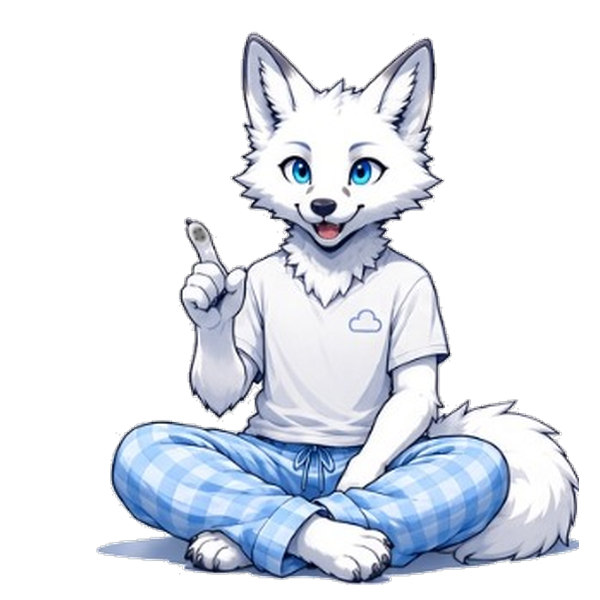
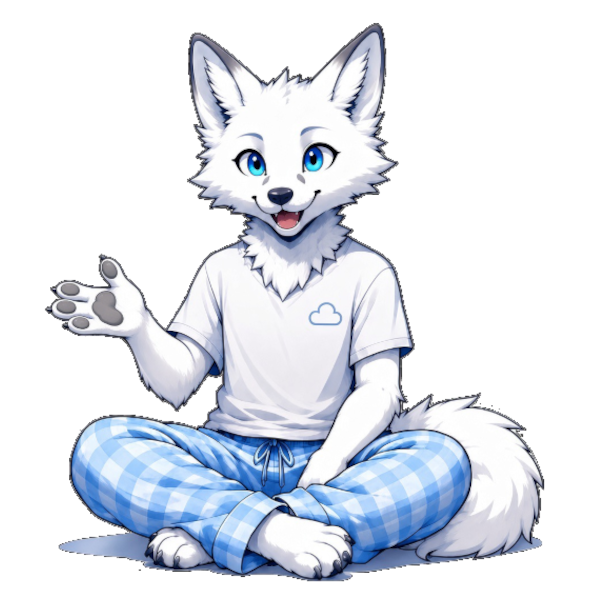
Fixes

diff --git a/CloudstaleProject/src/App.jsx b/CloudstaleProject/src/App.jsx
@@ -220,12 +220,12 @@ const toApiMessage = (m) => {
 };
 
 // Inactivity thresholds for the "bored" / "sleeping" idle states
-const IDLE_BORED_MS = 7 * 60 * 1000;   // 7 minutes of inactivity
-const IDLE_SLEEP_MS = 10 * 60 * 1000;  // 10 minutes of inactivity
+const IDLE_BORED_MS = 4 * 60 * 1000;   // 7 minutes of inactivity
+const IDLE_SLEEP_MS = 5 * 60 * 1000;  // 10 minutes of inactivity
 
 // If the model hasn't produced a first token after this long, switch to the
 // second, "deeper" thinking pose.
-const DEEP_THINK_MS = 15 * 1000;
+const DEEP_THINK_MS = 25 * 1000;
 
 // How long the one-off states stay on screen before falling back to idle.
 const GREETING_DISPLAY_MS = 2600;
@@ -233,7 +233,7 @@ const ERROR_DISPLAY_MS = 4000;
 
 // "Sigh": every this many ms of continuous generation, the mascot takes a
 // breather — streaming visibly pauses for SIGH_PAUSE_MS while it "sighs".
-const SIGH_INTERVAL_MS = 30 * 1000;
+const SIGH_INTERVAL_MS = 60 * 1000;
 const SIGH_PAUSE_MIN_MS = 2000;
 const SIGH_PAUSE_MAX_MS = 3000;
 
@@ -2145,14 +2145,14 @@ const handleKey = (e) => {
         <button
           onClick={() => setSidebarOpen((p) => !p)}
           title="Toggle Sidebar"
-          className={`absolute top-3.5 left-3.5 z-10 p-1.5 rounded-lg ${muted} ${hov} transition-all`}>
+          className={`absolute top-3.5 left-3.5 z-20 p-1.5 rounded-lg ${muted} ${hov} transition-all`}>
           <svg width="15" height="15" viewBox="0 0 24 24" fill="none" stroke="currentColor" strokeWidth="2" strokeLinecap="round">
             <line x1="3" y1="6" x2="21" y2="6" /><line x1="3" y1="12" x2="21" y2="12" /><line x1="3" y1="18" x2="21" y2="18" />
           </svg>
         </button>
 
         {/* Message Feed / Minimal Empty State */}
-        <div ref={scrollContainerRef} onScroll={handleScroll} className="flex-1 overflow-y-auto overflow-x-hidden">
+        <div ref={scrollContainerRef} onScroll={handleScroll} className="relative z-10 flex-1 overflow-y-auto overflow-x-hidden">
           <AnimatePresence mode="wait">
             {!hasMessages ? (
               <motion.div key="empty" initial={{ opacity: 0 }} animate={{ opacity: 1 }} exit={{ opacity: 0 }}
@@ -2206,7 +2206,7 @@ const handleKey = (e) => {
         </div>
 
           {hasMessages && settings.showMascot && (
-            <div className="absolute bottom-[90px] right-4 sm:right-6 lg:right-10 pointer-events-none opacity-90 transition-all duration-300">
+            <div className="absolute z-0 bottom-[90px] right-4 sm:right-6 lg:right-10 pointer-events-none opacity-90 transition-all duration-300">
               <FoxMascot state={mascotState === "greeting" ? "idle" : mascotState} size="clamp(110px, 30vw, 275px)" isDark={isDark} />
             </div>
           )}
